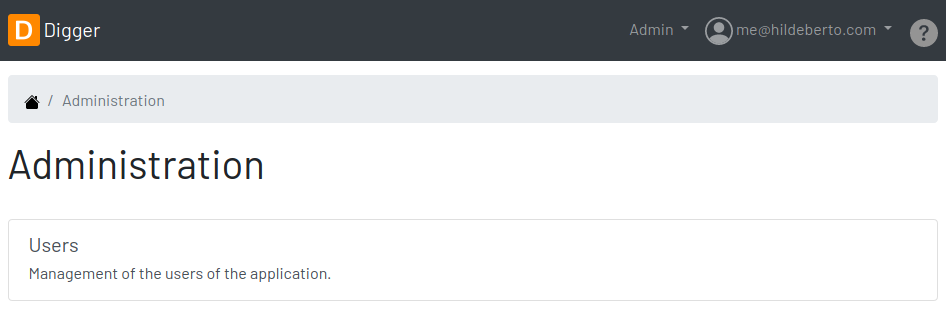
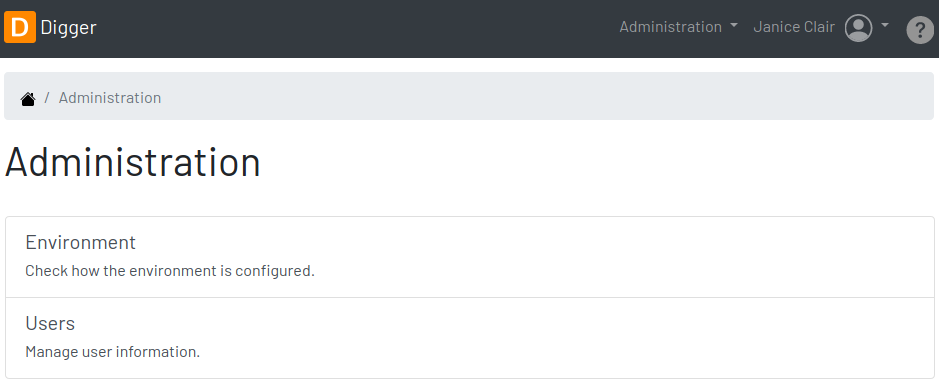
Updated the documentation of the release 1.7.0

diff --git a/docs/index.html b/docs/index.html
@@ -443,7 +443,7 @@ body.book #toc,body.book #preamble,body.book h1.sect0,body.book .sect1>h2{page-b
 <div class="details">
 <span id="author" class="author">Hildeberto Mendonca</span><br>
 <span id="email" class="email"><a href="mailto:me@hildeberto.com">me@hildeberto.com</a></span><br>
-<span id="revnumber">version 1.6.0</span>
+<span id="revnumber">version 1.7.0</span>
 </div>
 <div id="toc" class="toc2">
 <div id="toctitle">Table of Contents</div>
@@ -479,13 +479,8 @@ body.book #toc,body.book #preamble,body.book h1.sect0,body.book .sect1>h2{page-b
 <ul class="sectlevel2">
 <li><a href="#admin">3.1. Administration</a>
 <ul class="sectlevel3">
-<li><a href="#admin-users">3.1.1. Users</a>
-<ul class="sectlevel4">
-<li><a href="#enabling-disabling-user">Enabling and Disabling a User</a></li>
-<li><a href="#admin-user">User&#8217;s Details</a></li>
-<li><a href="#_changing_the_role_of_a_user">Changing the Role of a User</a></li>
-</ul>
-</li>
+<li><a href="#admin-environment">3.1.1. Environment</a></li>
+<li><a href="#admin-users">3.1.2. Users</a></li>
 </ul>
 </li>
 <li><a href="#datasources">3.2. Datasources</a>
@@ -537,33 +532,22 @@ body.book #toc,body.book #preamble,body.book h1.sect0,body.book .sect1>h2{page-b
 <li><a href="#_a_paragraph">A Paragraph</a></li>
 </ul>
 </li>
-<li><a href="#_appendix_b_open_source_license">Appendix B: Open Source License</a>
+<li><a href="#_appendix_b_code_of_conduct">Appendix B: Code of Conduct</a>
+<ul class="sectlevel2">
+<li><a href="#_our_pledge">Our Pledge</a></li>
+<li><a href="#_our_standards">Our Standards</a></li>
+<li><a href="#_our_responsibilities">Our Responsibilities</a></li>
+<li><a href="#_scope">Scope</a></li>
+<li><a href="#_enforcement">Enforcement</a></li>
+<li><a href="#_attribution">Attribution</a></li>
+</ul>
+</li>
+<li><a href="#_appendix_c_open_source_license">Appendix C: Open Source License</a>
 <ul class="sectlevel2">
 <li><a href="#_gnu_general_public_license">GNU GENERAL PUBLIC LICENSE</a>
 <ul class="sectlevel3">
 <li><a href="#_preamble">Preamble</a></li>
-<li><a href="#_terms_and_conditions">Terms and Conditions</a>
-<ul class="sectlevel4">
-<li><a href="#_definitions">Definitions</a></li>
-<li><a href="#_source_code">Source Code</a></li>
-<li><a href="#_basic_permissions">Basic Permissions</a></li>
-<li><a href="#_protecting_users_legal_rights_from_anti_circumvention_law">Protecting Users' Legal Rights From Anti-Circumvention Law</a></li>
-<li><a href="#_conveying_verbatim_copies">Conveying Verbatim Copies</a></li>
-<li><a href="#_conveying_modified_source_versions">Conveying Modified Source Versions</a></li>
-<li><a href="#_conveying_non_source_forms">Conveying Non-Source Forms</a></li>
-<li><a href="#_additional_terms">Additional Terms</a></li>
-<li><a href="#_termination">Termination</a></li>
-<li><a href="#_acceptance_not_required_for_having_copies">Acceptance Not Required for Having Copies</a></li>
-<li><a href="#_automatic_licensing_of_downstream_recipients">Automatic Licensing of Downstream Recipients</a></li>
-<li><a href="#_patents">Patents</a></li>
-<li><a href="#_no_surrender_of_others_freedom">No Surrender of Others' Freedom</a></li>
-<li><a href="#_use_with_the_gnu_affero_general_public_license">Use with the GNU Affero General Public License</a></li>
-<li><a href="#_revised_versions_of_this_license">Revised Versions of this License</a></li>
-<li><a href="#_disclaimer_of_warranty">Disclaimer of Warranty</a></li>
-<li><a href="#_limitation_of_liability">Limitation of Liability</a></li>
-<li><a href="#_interpretation_of_sections_15_and_16">Interpretation of Sections 15 and 16</a></li>
-</ul>
-</li>
+<li><a href="#_terms_and_conditions">Terms and Conditions</a></li>
 <li><a href="#_how_to_apply_these_terms_to_your_new_programs">How to Apply These Terms to Your New Programs</a></li>
 </ul>
 </li>
@@ -882,7 +866,7 @@ $ sudo systemctl enable digger.service</pre>
 <div class="sect2">
 <h3 id="admin">3.1. Administration</h3>
 <div class="paragraph">
-<p>The administration is accessible via the top menu, in the "Admin" option. It allows the administrator to manage user accounts.</p>
+<p>The administration is accessible via the top menu, in the "Admin" option. It allows the administrator to check environment configuration and manage user accounts.</p>
 </div>
 <div class="imageblock">
 <div class="content">
@@ -898,7 +882,18 @@ $ sudo systemctl enable digger.service</pre>
 </dl>
 </div>
 <div class="sect3">
-<h4 id="admin-users">3.1.1. Users</h4>
+<h4 id="admin-environment">3.1.1. Environment</h4>
+<div class="paragraph">
+<p>Sometime, the administrator needs to know how the application was configured in order to diagnose issues and properly manage it. The environment section lists the properties taken into account by the application.</p>
+</div>
+<div class="imageblock">
+<div class="content">
+<img src="images/environment.png" alt="environment">
+</div>
+</div>
+</div>
+<div class="sect3">
+<h4 id="admin-users">3.1.2. Users</h4>
 <div class="paragraph">
 <p>Administrators need to have control over the users to ensure the confidentiality of the information managed by Digger. They can find in this section the essential to manage the users.</p>
 </div>
@@ -1258,6 +1253,22 @@ $ mvn spring-boot:run</pre>
 </div>
 </div>
 <div class="paragraph">
+<p>During development, it might be time-consuming to run the entire test suite all the time. To limit the execution to the test file you are working on, run:</p>
+</div>
+<div class="literalblock">
+<div class="content">
+<pre>$ mvn -Dtest=digger.service.IgnoredTableServiceTest test</pre>
+</div>
+</div>
+<div class="paragraph">
+<p>To be even more specific and run a single test, run:</p>
+</div>
+<div class="literalblock">
+<div class="content">
+<pre>$ mvn -Dtest=digger.service.UserServiceTest#testChangePassword test</pre>
+</div>
+</div>
+<div class="paragraph">
 <p>Only submit your pull request if these tests pass. To see the test coverage report, open the page generated at <code>target/site/jacoco</code>.</p>
 </div>
 </div>
@@ -1265,6 +1276,9 @@ $ mvn spring-boot:run</pre>
 <h3 id="_technologies_in_use">4.5. Technologies in Use</h3>
 <div class="ulist">
 <ul>
+<li>
+<p><a href="https://docs.spring.io/spring-boot/docs/2.3.0.RELEASE/reference/htmlsingle/">Spring Boot</a></p>
+</li>
 <li>
 <p><a href="https://docs.spring.io/spring/docs/current/spring-framework-reference/web.html">Spring MVC</a></p>
 </li>
@@ -1539,6 +1553,15 @@ $ git commit -m "Updated the documentation for the release 1.3.0"</pre>
 <p>Publish the release.</p>
 </li>
 <li>
+<p>Move to your local master branch and update it:</p>
+<div class="literalblock">
+<div class="content">
+<pre>$ git checkout master
+$ git pull origin master</pre>
+</div>
+</div>
+</li>
+<li>
 <p>Create a branch for the next release:</p>
 <div class="literalblock">
 <div class="content">
@@ -1564,7 +1587,7 @@ $ git commit -m "Incremented version number to 1.5.0"</pre>
 </div>
 </li>
 <li>
-<p>Announce the new release to the community and on social networks.</p>
+<p>Announce the new release to the community.</p>
 </li>
 </ol>
 </div>
@@ -1589,7 +1612,101 @@ $ git commit -m "Incremented version number to 1.5.0"</pre>
 </div>
 </div>
 <div class="sect1">
-<h2 id="_appendix_b_open_source_license">Appendix B: Open Source License</h2>
+<h2 id="_appendix_b_code_of_conduct">Appendix B: Code of Conduct</h2>
+<div class="sectionbody">
+<div class="sect2">
+<h3 id="_our_pledge">Our Pledge</h3>
+<div class="paragraph">
+<p>In the interest of fostering an open and welcoming environment, we as contributors and maintainers pledge to making participation in our project and our community a harassment-free experience for everyone, regardless of age, body size, disability, ethnicity, sex characteristics, gender identity and expression, level of experience, education, socio-economic status, nationality, personal appearance, race, religion, or sexual identity and orientation.</p>
+</div>
+</div>
+<div class="sect2">
+<h3 id="_our_standards">Our Standards</h3>
+<div class="paragraph">
+<p>Examples of behavior that contributes to creating a positive environment include:</p>
+</div>
+<div class="ulist">
+<ul>
+<li>
+<p>Using welcoming and inclusive language</p>
+</li>
+<li>
+<p>Being respectful of differing viewpoints and experiences</p>
+</li>
+<li>
+<p>Gracefully accepting constructive criticism</p>
+</li>
+<li>
+<p>Focusing on what is best for the community</p>
+</li>
+<li>
+<p>Showing empathy towards other community members</p>
+</li>
+</ul>
+</div>
+<div class="paragraph">
+<p>Examples of unacceptable behavior by participants include:</p>
+</div>
+<div class="ulist">
+<ul>
+<li>
+<p>The use of sexualized language or imagery and unwelcome sexual attention or advances</p>
+</li>
+<li>
+<p>Trolling, insulting/derogatory comments, and personal or political attacks</p>
+</li>
+<li>
+<p>Public or private harassment</p>
+</li>
+<li>
+<p>Publishing others' private information, such as a physical or electronic address, without explicit permission</p>
+</li>
+<li>
+<p>Other conduct which could reasonably be considered inappropriate in a professional setting</p>
+</li>
+</ul>
+</div>
+</div>
+<div class="sect2">
+<h3 id="_our_responsibilities">Our Responsibilities</h3>
+<div class="paragraph">
+<p>Project maintainers are responsible for clarifying the standards of acceptable behavior and are expected to take appropriate and fair corrective action in response to any instances of unacceptable behavior.</p>
+</div>
+<div class="paragraph">
+<p>Project maintainers have the right and responsibility to remove, edit, or reject comments, commits, code, wiki edits, issues, and other contributions that are not aligned to this Code of Conduct, or to ban temporarily or permanently any contributor for other behaviors that they deem inappropriate, threatening, offensive, or harmful.</p>
+</div>
+</div>
+<div class="sect2">
+<h3 id="_scope">Scope</h3>
+<div class="paragraph">
+<p>This Code of Conduct applies both within project spaces and in public spaces when an individual is representing the project or its community. Examples of representing a project or community include using an official project e-mail address, posting via an official social media account, or acting as an appointed representative at an online or offline event. Representation of a project may be further defined and clarified by project maintainers.</p>
+</div>
+</div>
+<div class="sect2">
+<h3 id="_enforcement">Enforcement</h3>
+<div class="paragraph">
+<p>Instances of abusive, harassing, or otherwise unacceptable behavior may be reported by contacting the project team at <a href="mailto:me@hildeberto.com">me@hildeberto.com</a>. All complaints will be reviewed and investigated and will result in a response that is deemed necessary and appropriate to the circumstances. The project team is obligated to maintain confidentiality with regard to the reporter of an incident. Further details of specific enforcement policies may be posted separately.</p>
+</div>
+<div class="paragraph">
+<p>Project maintainers who do not follow or enforce the Code of Conduct in good faith may face temporary or permanent repercussions as determined by other members of the project&#8217;s leadership.</p>
+</div>
+</div>
+<div class="sect2">
+<h3 id="_attribution">Attribution</h3>
+<div class="paragraph">
+<p>This Code of Conduct is adapted from the [Contributor Covenant][homepage], version 1.4, available at <a href="https://www.contributor-covenant.org/version/1/4/code-of-conduct.html" class="bare">https://www.contributor-covenant.org/version/1/4/code-of-conduct.html</a></p>
+</div>
+<div class="paragraph">
+<p>[homepage]: <a href="https://www.contributor-covenant.org" class="bare">https://www.contributor-covenant.org</a></p>
+</div>
+<div class="paragraph">
+<p>For answers to common questions about this code of conduct, see <a href="https://www.contributor-covenant.org/faq" class="bare">https://www.contributor-covenant.org/faq</a></p>
+</div>
+</div>
+</div>
+</div>
+<div class="sect1">
+<h2 id="_appendix_c_open_source_license">Appendix C: Open Source License</h2>
 <div class="sectionbody">
 <div class="sect2">
 <h3 id="_gnu_general_public_license">GNU GENERAL PUBLIC LICENSE</h3>
@@ -2014,8 +2131,8 @@ Copyright &#169; 2019-2020 Hildeberto Mendonca</p>
 </div>
 <div id="footer">
 <div id="footer-text">
-Version 1.6.0<br>
-Last updated 2020-06-22 08:26:25 -0400
+Version 1.7.0<br>
+Last updated 2020-06-28 18:38:50 -0400
 </div>
 </div>
 </body>
